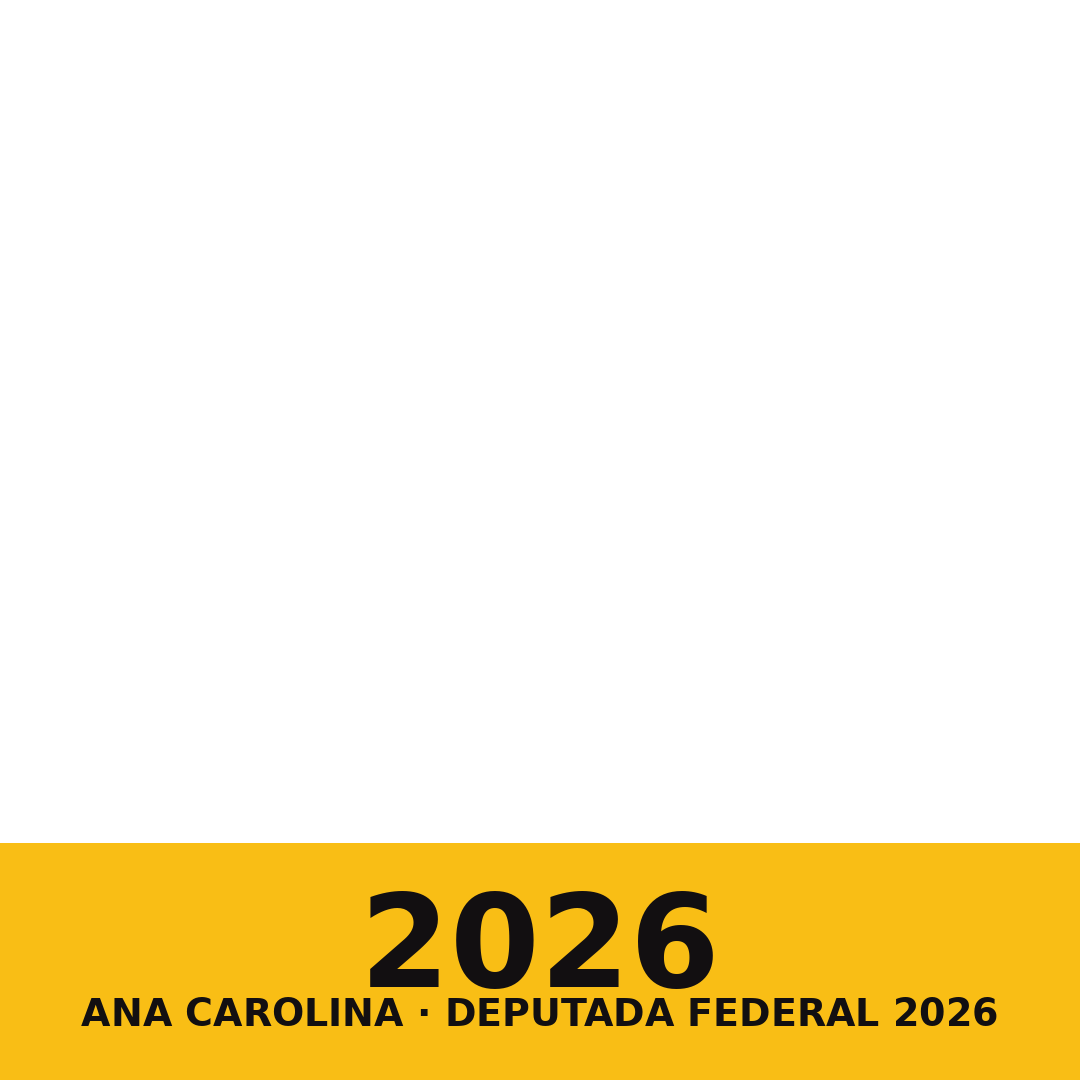
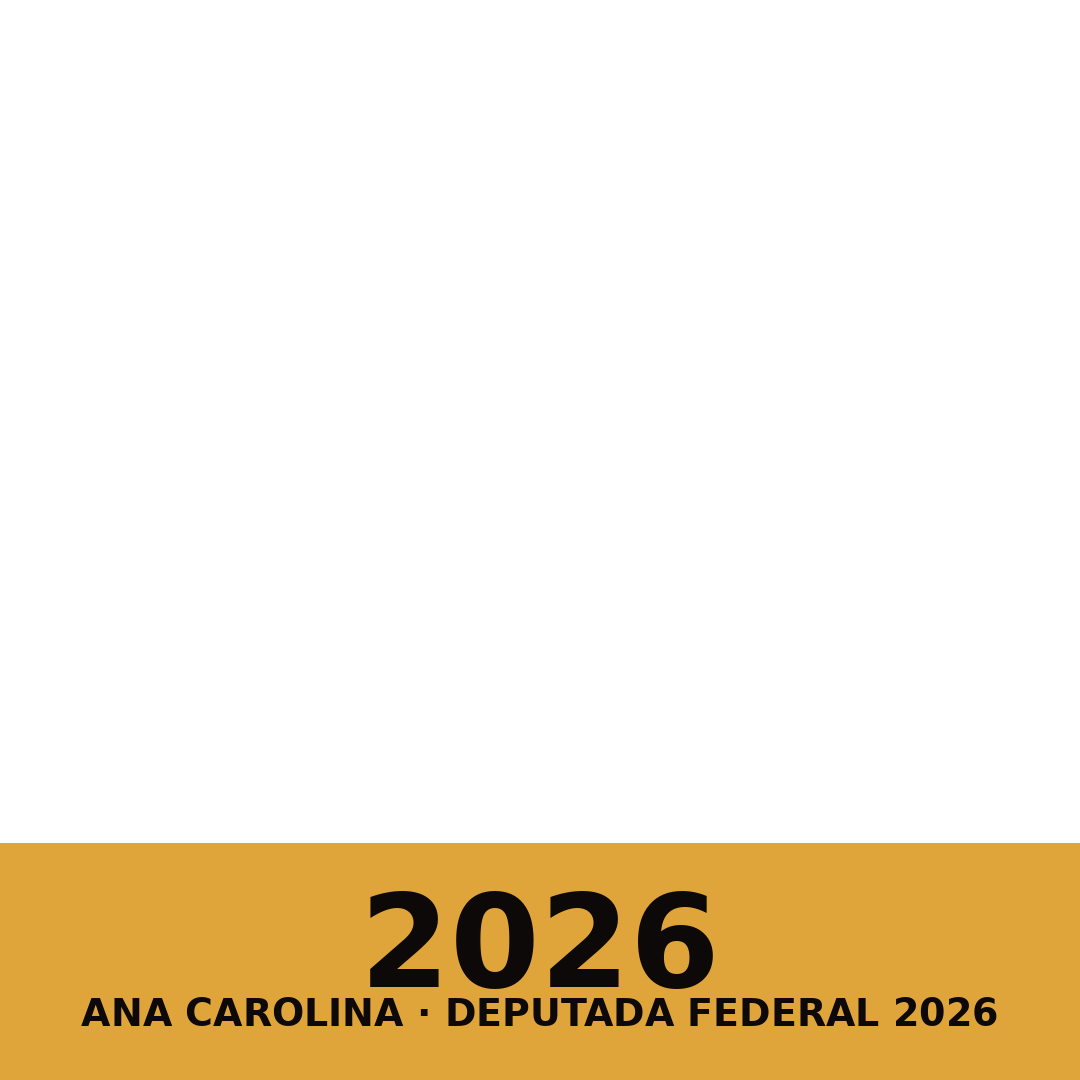
Add files via upload

Changed region(s): [[0.0, 0.7639, 1.0, 1.0]]

diff --git a/kit-digital.html b/kit-digital.html
@@ -15,13 +15,17 @@
 <link rel="stylesheet" href="https://fonts.googleapis.com/css2?family=Poppins:wght@400;600;700;800;900&display=swap" />
 <style>
 :root{
-  --preto:#120F11; --preto-2:#1C181A; --laranja:#CC532A; --amarelo:#F9BE15; --marinho:#232A3B;
-  --creme:#FBF7EF; --creme-2:#F3EDE1; --linha:#E4DCCB; --ink:#120F11; --ink-soft:#5B534F;
+  /* paleta Ana Carolina (mesma da página APOIAR) */
+  --preto:#0c0908; --preto-2:#17100F; --laranja:#9a3524; --amarelo:#e0a53a; --amarelo-2:#f0d59a;
+  --marinho:#231712;
+  --creme:#0c0908; --creme-2:#17100F; --linha:rgba(255,255,255,.12);
+  --ink:#FFFFFF; --ink-soft:rgba(255,255,255,.62);
   --w50:rgba(255,255,255,.5); --w12:rgba(255,255,255,.12);
   --pill:9999px; --font:"Poppins",ui-sans-serif,system-ui,sans-serif;
 }
 *,*::before,*::after{ box-sizing:border-box } *{ margin:0; padding:0 }
-body{ background:var(--creme); color:var(--ink); font-family:var(--font); line-height:1.55;
+body{ color:var(--ink); font-family:var(--font); line-height:1.55;
+  background:linear-gradient(160deg, #0c0908 0%, #17100F 60%, #241611 100%) fixed;
   -webkit-font-smoothing:antialiased; min-height:100vh; display:flex; flex-direction:column }
 img{ display:block; max-width:100% } a{ color:inherit; text-decoration:none }
 button{ font:inherit; color:inherit; background:none; border:none; cursor:pointer }
@@ -34,8 +38,9 @@ svg{ display:block; flex-shrink:0 } ul{ list-style:none }
   font-weight:900; font-size:.9rem; letter-spacing:.04em; text-transform:uppercase; padding:1rem 1.6rem;
   transition:transform .16s, background-color .16s }
 .btn:hover{ transform:translateY(-2px) }
-.btn-lar{ background:var(--laranja); color:#fff } .btn-lar:hover{ background:#e06034 }
-.btn-preto{ background:var(--preto); color:#fff }
+.btn-lar{ background:var(--laranja); color:#fff } .btn-lar:hover{ background:#b23f2b }
+.btn-preto{ background:rgba(255,255,255,.08); color:#fff; border:1px solid var(--linha) }
+.btn-preto:hover{ background:rgba(255,255,255,.14) }
 .btn-linha{ border:2px solid currentColor }
 .btn:disabled{ opacity:.4; cursor:not-allowed; transform:none }
 
@@ -58,7 +63,7 @@ h1{ margin-top:.8rem; font-weight:900; text-transform:uppercase; letter-spacing:
   background:var(--creme-2); border:1px solid var(--linha) }
 .aba{ padding:.6rem 1.3rem; border-radius:var(--pill); font-size:.78rem; font-weight:900;
   letter-spacing:.06em; text-transform:uppercase; color:var(--ink-soft); transition:.15s }
-.aba.on{ background:var(--preto); color:#fff }
+.aba.on{ background:var(--amarelo); color:var(--preto) }
 
 .editor{ display:grid; gap:2rem; margin-top:1.5rem }
 @media (min-width:860px){ .editor{ grid-template-columns:1fr 19rem; gap:3rem; align-items:start } }
@@ -77,8 +82,8 @@ h1{ margin-top:.8rem; font-weight:900; text-transform:uppercase; letter-spacing:
 .molduras{ display:flex; flex-wrap:wrap; gap:.6rem; margin-bottom:1.5rem }
 .mini{ width:4.2rem; text-align:center }
 .mini img{ width:4.2rem; height:4.2rem; object-fit:contain; border-radius:.7rem; padding:.2rem;
-  background:var(--creme-2); border:2px solid var(--linha); transition:.15s }
-.mini.on img{ border-color:var(--laranja); background:#fff }
+  background:rgba(255,255,255,.05); border:2px solid var(--linha); transition:.15s }
+.mini.on img{ border-color:var(--amarelo); background:rgba(255,255,255,.1) }
 .mini span{ display:block; margin-top:.3rem; font-size:.66rem; font-weight:800; color:var(--ink-soft) }
 .enviar{ width:100%; cursor:pointer }
 .ctrl{ margin-top:1.5rem; padding:1.1rem; border:1px solid var(--linha); border-radius:1rem; background:var(--creme-2) }
@@ -88,11 +93,11 @@ h1{ margin-top:.8rem; font-weight:900; text-transform:uppercase; letter-spacing:
 .ctrl-bts{ display:flex; align-items:center; gap:.5rem }
 .ctrl-bts input[type=range]{ flex:1; accent-color:var(--laranja) }
 .bt{ display:grid; place-items:center; width:2.9rem; height:2.9rem; flex-shrink:0;
-  border-radius:.7rem; background:#fff; border:2px solid var(--linha);
-  font-size:1.3rem; font-weight:900; line-height:1; color:var(--preto);
+  border-radius:.7rem; background:rgba(255,255,255,.06); border:2px solid var(--linha);
+  font-size:1.3rem; font-weight:900; line-height:1; color:#fff;
   transition:.12s; user-select:none; -webkit-user-select:none; touch-action:manipulation }
-.bt:hover{ border-color:var(--laranja); color:var(--laranja) }
-.bt:active{ transform:scale(.94); background:var(--amarelo) }
+.bt:hover{ border-color:var(--amarelo); color:var(--amarelo) }
+.bt:active{ transform:scale(.94); background:var(--amarelo); color:var(--preto) }
 .bt-larg{ flex:1; width:auto } .bt-centro{ font-size:2rem }
 .dpad{ display:grid; grid-template-columns:repeat(3,2.9rem); grid-template-rows:repeat(3,2.9rem);
   gap:.4rem; justify-content:center }
@@ -121,7 +126,7 @@ h1{ margin-top:.8rem; font-weight:900; text-transform:uppercase; letter-spacing:
 .folha .btn{ width:100%; margin-top:.6rem } .folha .btn svg{ width:1.1rem; height:1.1rem }
 .alvos{ display:grid; gap:.6rem; margin:1.2rem 0 1rem }
 .alvo{ display:flex; align-items:center; gap:.9rem; width:100%; padding:.9rem 1rem; border-radius:.9rem;
-  border:2px solid var(--linha); background:#fff; text-align:left; transition:.14s }
+  border:2px solid var(--linha); background:var(--preto-2); color:#fff; text-align:left; transition:.14s }
 .alvo:active{ transform:scale(.98) }
 .alvo-wa:hover{ border-color:#25D366 } .alvo-ig:hover{ border-color:#E1306C }
 .alvo-i{ display:grid; place-items:center; width:2.6rem; height:2.6rem; border-radius:.7rem; flex-shrink:0 }
@@ -130,6 +135,11 @@ h1{ margin-top:.8rem; font-weight:900; text-transform:uppercase; letter-spacing:
 .alvo-t b{ display:block; font-size:.92rem; font-weight:900; letter-spacing:-.01em }
 .alvo-t span{ display:block; margin-top:.1rem; font-size:.76rem; color:var(--ink-soft) }
 
+.artes{ display:grid; grid-template-columns:repeat(auto-fill,minmax(9rem,1fr)); gap:1rem; margin-top:.9rem }
+.arte{ background:var(--creme-2); border:1px solid var(--linha); border-radius:1rem; overflow:hidden }
+.arte img{ width:100%; aspect-ratio:1; object-fit:cover; background:var(--marinho); display:block }
+.arte button{ width:100%; padding:.7rem; font-size:.72rem; font-weight:900; letter-spacing:.08em; text-transform:uppercase; color:var(--amarelo) }
+.arte button:hover{ color:#fff; background:rgba(255,255,255,.06) }
 .rodape{ background:var(--preto); color:var(--w50); padding-block:2rem; font-size:.75rem; text-align:center }
 .rodape strong{ display:block; color:rgba(255,255,255,.75); font-weight:700; margin-bottom:.5rem }
 .rodape a{ color:var(--amarelo) }
@@ -209,6 +219,11 @@ h1{ margin-top:.8rem; font-weight:900; text-transform:uppercase; letter-spacing:
         <button class="btn btn-linha" type="button" id="trocar" hidden>Trocar foto</button>
       </div>
     </div>
+
+    <section style="margin-top:3.2rem">
+      <span class="rot">Artes para baixar e compartilhar</span>
+      <div class="artes" id="artes"></div>
+    </section>
   </div>
 </main>
 
@@ -225,18 +240,28 @@ h1{ margin-top:.8rem; font-weight:900; text-transform:uppercase; letter-spacing:
 </div>
 
 <script>
-/* Molduras hospedadas no MESMO domínio (sem CORS/proxy).
-   Troque estes PNGs pelos oficiais da Ana em /artes/molduras/.        */
-var MOLD_BASE = 'artes/molduras/';
+/* Molduras oficiais no R2 da campanha. O download passa pelo /api/img
+   (proxy com CORS) pra o canvas não "sujar". */
+var R2    = 'https://pub-d8c17953a575480084b80982d84262c2.r2.dev/materiais%20ana/';
+var PROXY = '/api/img?u=';
 var MOLDURAS = {
   perfil: [
-    { n:'Eu voto', u: MOLD_BASE + 'perfil-eu-voto.png' },
-    { n:'Amarela', u: MOLD_BASE + 'perfil-amarela.png' }
+    { n:'Moldura 1', u: R2 + 'Filtro%20FEED%20e%20Perfil%20ANA/1.png' },
+    { n:'Moldura 2', u: R2 + 'Filtro%20FEED%20e%20Perfil%20ANA/2.png' },
+    { n:'Moldura 3', u: R2 + 'Filtro%20FEED%20e%20Perfil%20ANA/3.png' },
+    { n:'Moldura 4', u: R2 + 'Filtro%20FEED%20e%20Perfil%20ANA/4.png' }
   ],
   story: [
-    { n:'Eu voto', u: MOLD_BASE + 'story-eu-voto.png' }
+    { n:'Story 1', u: R2 + 'Filtro%20Story%20ANA/1.png' },
+    { n:'Story 2', u: R2 + 'Filtro%20Story%20ANA/2.png' },
+    { n:'Story 3', u: R2 + 'Filtro%20Story%20ANA/3.png' }
   ]
 };
+/* artes prontas para baixar */
+var ARTES = [
+  { n:'Arte 1', u: R2 + 'Artes%20para%20baixar/4.PNG' },
+  { n:'Arte 2', u: R2 + 'Artes%20para%20baixar/5.PNG' }
+];
 var E = { fmt:'perfil', idx:0, foto:null, moldura:null, escala:1, dx:0, dy:0, rot:0 };
 var tela = document.getElementById('tela');
 var ctx  = tela.getContext('2d');
@@ -269,11 +294,19 @@ function desenhar(){
 function carregarMoldura(){
   var lista = MOLDURAS[E.fmt];
   var m = lista[Math.min(E.idx, lista.length - 1)];
-  var img = new Image();
-  if (/^https?:\/\//i.test(m.u)) img.crossOrigin = 'anonymous';   // só p/ molduras externas
-  img.onload  = function(){ E.moldura = img; desenhar(); };
-  img.onerror = function(){ E.moldura = null; desenhar(); };
-  img.src = m.u;
+  function tentar(url, comCors, aoFalhar){
+    var img = new Image();
+    if (comCors) img.crossOrigin = 'anonymous';
+    img.onload  = function(){ E.moldura = img; desenhar(); };
+    img.onerror = aoFalhar;
+    img.src = url;
+  }
+  // 1) direto do R2 (se mandar CORS); 2) pelo proxy /api/img; 3) sem CORS (só exibe)
+  tentar(m.u, true, function(){
+    tentar(PROXY + encodeURIComponent(m.u), true, function(){
+      tentar(m.u, false, function(){ E.moldura = null; desenhar(); });
+    });
+  });
 }
 
 function miniaturas(){
@@ -413,7 +446,24 @@ function comoFazer(id){
 document.getElementById('modal').addEventListener('click', function(e){ if(!e.target.hasAttribute('data-fechar')) return; document.getElementById('modal').classList.remove('open'); document.body.style.overflow=''; });
 document.addEventListener('keydown', function(e){ if(e.key!=='Escape') return; document.getElementById('modal').classList.remove('open'); document.body.style.overflow=''; });
 
-miniaturas(); carregarMoldura(); desenhar();
+/* galeria de artes prontas */
+function baixarArte(url, nome){
+  fetch(PROXY + encodeURIComponent(url)).then(function(r){ return r.blob(); }).then(function(bl){
+    var a = document.createElement('a'); a.href = URL.createObjectURL(bl); a.download = nome;
+    document.body.appendChild(a); a.click(); a.remove();
+  }).catch(function(){ window.open(url, '_blank'); });
+}
+function renderArtes(){
+  var box = document.getElementById('artes'); if (!box) return; box.innerHTML = '';
+  ARTES.forEach(function(a, i){
+    var c = document.createElement('div'); c.className = 'arte';
+    c.innerHTML = '<img src="' + a.u + '" alt="' + a.n + '" loading="lazy"><button type="button">Baixar</button>';
+    c.querySelector('button').addEventListener('click', function(){ baixarArte(a.u, 'ana-carolina-2026-arte-' + (i + 1) + '.png'); });
+    box.appendChild(c);
+  });
+}
+
+miniaturas(); carregarMoldura(); desenhar(); renderArtes();
 </script>
 </body>
 </html>

diff --git a/functions/api/img.js b/functions/api/img.js
@@ -1,0 +1,29 @@
+/**
+ * GET /api/img?u=<url do R2>   — repassa a imagem do R2 COM cabeçalho CORS,
+ * pra a moldura poder ser desenhada no canvas e baixada sem "sujar" a imagem.
+ * Por segurança, só repassa do bucket R2 da campanha.
+ */
+export async function onRequestGet({ request }) {
+  const u = new URL(request.url).searchParams.get("u") || "";
+  if (!/^https:\/\/pub-[a-z0-9]+\.r2\.dev\//i.test(u)) {
+    return new Response("url nao permitida", { status: 400, headers: cors() });
+  }
+  let r;
+  try {
+    r = await fetch(u, { cf: { cacheEverything: true, cacheTtl: 86400 } });
+  } catch (e) {
+    return new Response("falha ao buscar", { status: 502, headers: cors() });
+  }
+  if (!r.ok) return new Response("erro " + r.status, { status: r.status, headers: cors() });
+  const h = cors();
+  h.set("Content-Type", r.headers.get("Content-Type") || "image/png");
+  h.set("Cache-Control", "public, max-age=86400");
+  return new Response(r.body, { status: 200, headers: h });
+}
+export function onRequestOptions() { return new Response(null, { status: 204, headers: cors() }); }
+function cors() {
+  const h = new Headers();
+  h.set("Access-Control-Allow-Origin", "*");
+  h.set("Access-Control-Allow-Methods", "GET, OPTIONS");
+  return h;
+}
